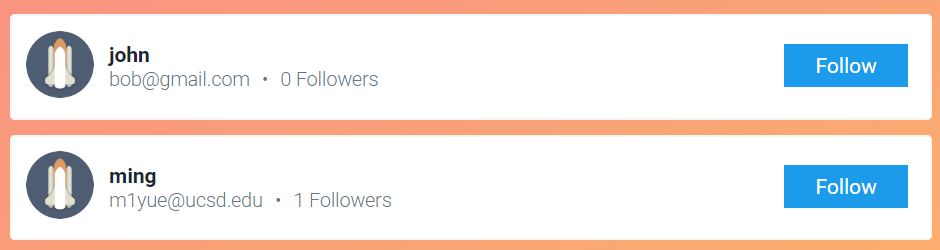
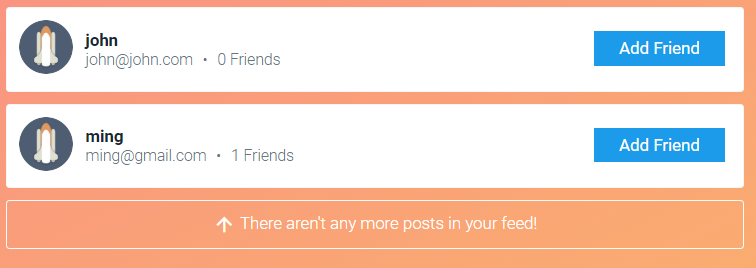
updated docs to reflect UI changes

diff --git a/docs/index.html b/docs/index.html
@@ -2,9 +2,9 @@
 <html lang="en">
 <head>
   <meta charset="UTF-8">
-  <title>SpeakEasy - Privacy focused Social Network</title>
+  <title>SpeakEasy Documentation</title>
   <meta http-equiv="X-UA-Compatible" content="IE=edge,chrome=1" />
-  <meta name="description" content="Simple react socail app">
+  <meta name="description" content="A mini-social-network created with VueJS!!">
   <meta name="viewport" content="width=device-width, user-scalable=no, initial-scale=1.0, maximum-scale=1.0, minimum-scale=1.0">
   <link rel="stylesheet" href="//unpkg.com/docsify/lib/themes/vue.css">
 </head>
@@ -13,20 +13,11 @@
   <script>
     window.$docsify = {
       name: 'SpeakEasy',
-      repo: 'https://github.com/dedmeme-2018/SpeakEasy',
-	  loadSidebar: true,
-	  subMaxLevel: 2
+      repo: 'https://github.com/dedmeme-2018/SpeakEasy/',
+        loadSidebar: true,
+        subMaxLevel: 2
     }
   </script>
   <script src="//unpkg.com/docsify/lib/docsify.min.js"></script>
-  <script src="//unpkg.com/vue"></script>
-  <script src="//unpkg.com/docsify"></script>
-	  <!-- inject css file -->
-	<link rel="stylesheet" href="//unpkg.com/vuep/dist/vuep.css">
-
-	<!-- inject javascript file -->
-	<script src="//unpkg.com/vue"></script>
-	<script src="//unpkg.com/vuep"></script>
-	<script src="//unpkg.com/docsify"></script>
 </body>
 </html>

diff --git a/docs/README.md b/docs/README.md
@@ -6,20 +6,17 @@
 </p>
 <!-- Name -->
 <h1 align="center">
-  <a href="https://github.com/dedmeme-2018/SpeakEasy">SpeakEasy</a>
-   :rocket:<span style="font-variant-caps: petite-caps;font-size: 20px;font-weight: 400;">Version 1.1 by <img height="20px" src="https://raw.githubusercontent.com/dedmeme-2018/SpeakEasy/master/dmmlogo.png"/></span>:rocket:
-</h3>
-
+  <a href="https://github.com/dedmeme-2018/SpeakEasy">SpeakEasy</a> 
+   :rocket:<span style="font-variant-caps: petite-caps;">Version 1.1 by <img height="20px" src="https://raw.githubusercontent.com/dedmeme-2018/SpeakEasy/master/dmmlogo.png"/></span>:rocket:
   </h1>
   
 [![Build Status](https://travis-ci.org/dedmeme-2018/SpeakEasy.svg?branch=master)](https://travis-ci.org/dedmeme-2018/SpeakEasy)
 
-
-# SpeakEasy
 <!-- Quick Intro -->
+# Intro
 SpeakEasy is a web application relying on [Vue](https://vuejs.org/v2/guide/index.html) a javascript library for building the user interface. If you are not familiar with Vue, here are two resources that you can check out. [Official Docs](https://vuejs.org/v2/guide/installation.html#Vue-Devtools) and [Quick Intro](https://medium.com/codingthesmartway-com-blog/vue-js-2-quickstart-tutorial-2017-246195cfbdd2).
 
-# Usage
+# Getting Started
 1. <b>First install all dependencies. Make sure you have Node.js & npm on your machine:</b>
     - Node: https://nodejs.org/en/download/current/ 
     - npm: https://www.npmjs.com/get-npm
@@ -28,12 +25,17 @@ SpeakEasy is a web application relying on [Vue](https://vuejs.org/v2/guide/index
     # with npm
     npm install
     ```
+    
+1. Build the project 
+    ```bash
+    npm run build
+    ```
 
-After we install dependencies, we set up the MySQL database.
+1. After you're done with dependencies and building, we can set up the database. We use MySql as the database for our project.
 
-2.  <b>For <i>Windows</i>, Install PhpMyAdmin, import db.sql in repository.</b>
+1. <b>For <i>Windows</i>, Install PhpMyAdmin, import db.sql in repository.</b>
 
-3. <b>For <i>MacOS</i></b>,
+1. <b>For <i>MacOS</i></b>,
    - [Install MySql](https://dev.mysql.com/downloads/mysql/) and run the MySql server. Remember your password for 'root' 
    - Install the mysql cli using `brew install mysql`
    - Import the database from db.sql. You can run the command whenever you want to reset the database
@@ -42,42 +44,39 @@ After we install dependencies, we set up the MySQL database.
       $ mysql -u username -p
       mysql> SET GLOBAL sql_mode=(SELECT REPLACE(@@sql_mode,'ONLY_FULL_GROUP_BY',''));
       ```
+      
+1. <b>Create a `.env` file and insert the following code. Replace values with yours!!</b>
 
+    ```javascript
+        PORT=[YOUR_PORT]
+        MYSQL_HOST="localhost"
+        MYSQL_USER="root"
+        MYSQL_PASSWORD=[YOUR_PASSWORD]
+        MYSQL_DATABASE="peterbook"
+        SESSION_SECRET_LETTER=[ANYTHING_SECRET]
+    ```
 
-4. <b>Create a `.env` file and insert the following code. Replace values with yours!!</b>
+      - Example `.env` file would looks like:
 
-```javascript
-    PORT=[YOUR_PORT]
-    MYSQL_HOST="localhost"
-    MYSQL_USER="root"
-    MYSQL_PASSWORD=[YOUR_PASSWORD]
-    MYSQL_DATABASE="peterbook"
-    SESSION_SECRET_LETTER=[ANYTHING_SECRET]
-```
-
-  - Example `.env` file would looks like:
-
-```javascript
-    PORT=3000
-    MYSQL_HOST=localhost
-    MYSQL_USER=root
-    MYSQL_PASSWORD=pswd
-    MYSQL_DATABASE=peterbook
-    SESSION_SECRET_LETTER=secret_letter
-```
-
-
-5. <b>Start the server</b>
+    ```javascript
+        PORT=3000
+        MYSQL_HOST=localhost
+        MYSQL_USER=root
+        MYSQL_PASSWORD=pswd
+        MYSQL_DATABASE=peterbook
+        SESSION_SECRET_LETTER=secret_letter
+    ```
+1. <b>Start the server</b>
     ```javascript
     npm start
     ```
 
-6. <b>Now open the app in browser by entering</b> 
+1. <b>Now open the app in browser by entering</b> 
     ```javacript
     localhost:[PORT]
     ```
 
-7. <b>Enjoy!!</b>
+1. <b>Enjoy!!</b>
 
 # Common Issues
 1. ER_MIX_OF_GROUP_FUNC_AND_FIELDS:
@@ -86,25 +85,17 @@ After we install dependencies, we set up the MySQL database.
       mysql> SET GLOBAL sql_mode=(SELECT REPLACE(@@sql_mode,'ONLY_FULL_GROUP_BY',''));
     ```
 
-### Development Guidelines
-- Create a branch for each new feature (never push to master)
-- Have reasonable comments in your code
-- Always create a pull request once you're done with your feature
-- Assign a team member to code review and merge the pull request once it's approved
-- Once we get testing and other pipeline features back in update this with how to use them properly
-
-### Updating Documentation
-Refer to [docsify documentation](https://docsify.js.org/#/) for more details.
-
-1. Create Markdown file (.md) in project ./docs folder 
-
-1. Format however desired using [Markdown](https://github.com/adam-p/markdown-here/wiki/Markdown-Cheatsheet) 
-
-1. To add page to sidebar modify ./docs/_sidebar.md and include your page
-
-### Built With
-
-  * [Vue Mini Social Network](https://github.com/yTakkar/Vue-Mini-Social-Network) A reactive mini-social-network created with Vue!!
-  * [Keen UI](https://github.com/JosephusPaye/Keen-UI) A lightweight collection of essential UI components written with Vue and inspired by Material Design.
-  * [docsify](https://docsify.js.org/#/) A magical documentation site generator.
-
+# Updating Documentation
+ Refer to [docsify documentation](https://docsify.js.org/#/) for more details.
+ 
+ 1. Create Markdown file (.md) in project ./docs folder 
+ 
+ 1. Format however desired using [Markdown](https://github.com/adam-p/markdown-here/wiki/Markdown-Cheatsheet) 
+ 
+ 1. To add page to sidebar modify ./docs/_sidebar.md and include your page
+ 
+# Built With
+ 
+   * [Vue Mini Social Network](https://github.com/yTakkar/Vue-Mini-Social-Network) A reactive mini-social-network created with Vue!!
+   * [Keen UI](https://github.com/JosephusPaye/Keen-UI) A lightweight collection of essential UI components written with Vue and inspired by Material Design.
+   * [docsify](https://docsify.js.org/#/) A magical documentation site generator.

diff --git a/docs/issues_past.md b/docs/issues_past.md
@@ -1,9 +1,22 @@
-# Past Issues (Updated 6/14/18)
+# Past Issues (Updated 6/15/18)
 
-These are problems that we have encountered in our development process and have resolved to a reasonable degree. 
+These are problems that we have encountered in our development process and learned from.
 
 ## Front-end Framework Choice
 
 ### Vue vs React
-Initially, we chose **Vue** as our framework due to the perceived smaller learning curve and lightweight nature. However, we discovered there were very few social media libraries available for us to build upon. The ones we did find did not have firebase support so we backed off and tried **React**. We attempted for a week to build upon **React Social Network** but it was not well documented or suited to development. We made the tricky decision to cut our losses and again go to **Vue**. As we switched our project back to Vue, we learned that our initial impressions were true. We have thus been able to make much quicker progress working with Vue. 
+Initially, we chose **Vue** as our framework due to the perceived smaller learning curve and lightweight nature. However, we discovered there were very few social media libraries available for us to build upon. The ones we did find did not have firebase support so we backed off and tried **React**. 
+
+We attempted for a week to build upon **React Social Network** but it was not well documented or suited to development. We made the tricky decision to cut our losses and again go to **Vue**. As we switched our project back to Vue, we learned that our initial impressions were true. We have thus been able to make much quicker progress working with Vue. 
+
+## Testing
+We encountered problems with getting tests to work throughout our project, but we kept pushing the issue back. Now that it is the end of the project, we are still unable to get tests to work so we should have definitely addressed this sooner.
+
+## Mobile Support
+We knew Peter wanted the MVP to work on a variety of devices, however, we also delayed addressing mobile device support and were unable to finish this feature. We should have begun by directly addressing the features Peter requested before working on other features. 
+
+## Component Documentation
+We were working on getting all our components documented. Multiple documentation generation tools did not work, so we resorted to manual documentation. This was a sort of late decision as well since we wanted to have more comprehensive docs. 
+
+
 

diff --git a/docs/design/ui-deploy.md b/docs/design/ui-deploy.md
@@ -53,7 +53,11 @@ The explore component allows you to find other users to follow. It is populated 
 
 ![explore](../images/explore_card.png)
 
-### Confirm/Delete Followers
-Confirm Followers            |  Delete Followers
+### Confirm/Delete Friends
+Confirm Friends           |  Delete Friends
 :-------------------------:|:-------------------------:
 ![confirm](../images/confirm_followers.png) |  ![delete](../images/delete_followers.png)
+
+### Data Page
+Here we have all your posts and data readily available for editing or deletion.
+![](../images/datapage.png)

diff --git a/docs/features.md b/docs/features.md
@@ -1,6 +1,9 @@
-# Features (Updated 6/14/18)
+# Features (Updated 6/15/18)
 
 ### Implemented:
+**6/15/18 Update**
+- Commenting on Posts
+
 **6/14/18 Update**
 - Cleaned up several UI elements
 - Ad Component
@@ -21,17 +24,13 @@
 ### In Progress:
 
 ##### Frontend
-- Progressive Web App Conversion
-- Ads
-- Personal Data Page
-- Privacy Settings Page
-- Animations
 
 ##### Backend
 - Migration of Backend from MySQL to Firebase
 
 ##### Other
 - Testing
+- Component Documentation
  
 ### Remaining:
 - Subscription Payment Processing

diff --git a/docs/issues_current.md b/docs/issues_current.md
@@ -3,9 +3,4 @@
 These are issues that we are currently attempting to address.
 
 ## MySQL to Firebase Conversion
-//todo
-
-## Testing
-//todo
-
-## 
+The Vue Mini Social Network we use has MySQL as the backend. We want to eventually migrate over to Firebase and have provided the necessary documentation for a future team to do so. 
